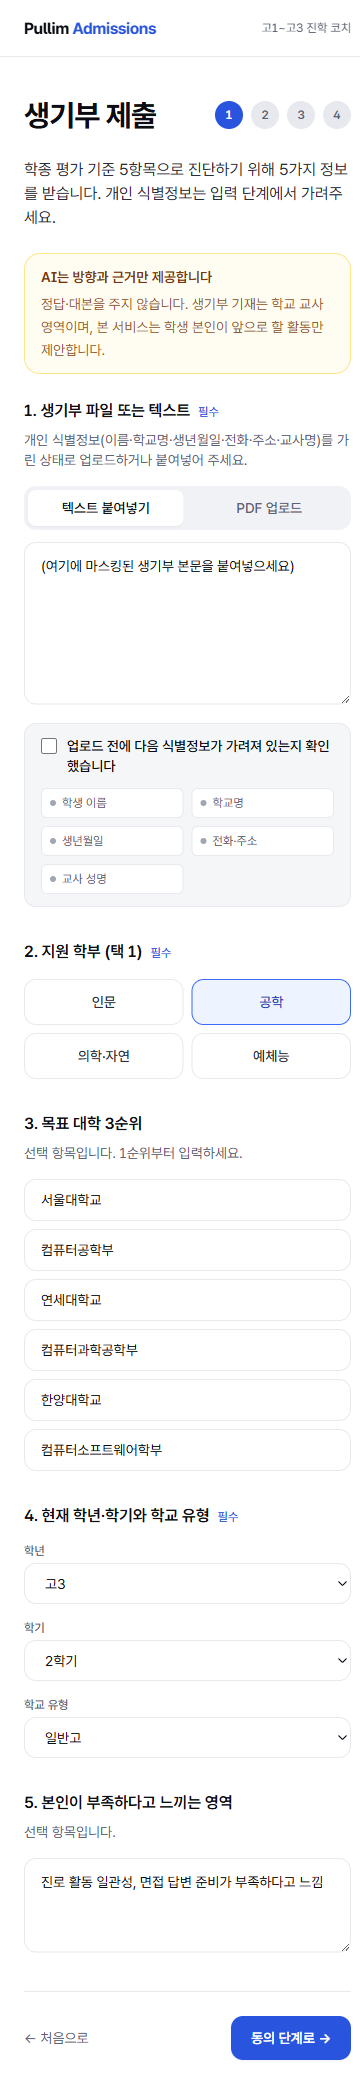
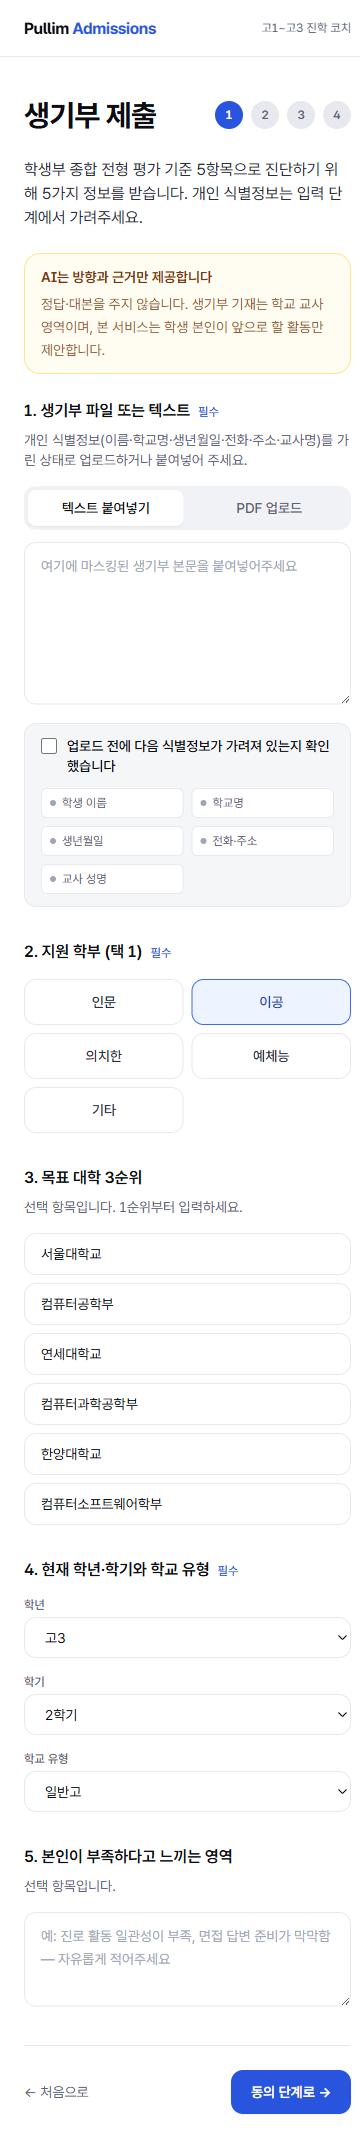
UX writing: 학종 → 학생부 종합 전형 (8 files) + /submit weakAreas placeholder
UX 라이팅 풀어 쓰기 (학생·학부모 대상 카피 명확화):
- apps/web/app/page.tsx (5 occurrences)
- apps/web/app/layout.tsx (meta description 2)
- apps/web/app/submit/page.tsx (1)
- apps/web/app/consent/page.tsx (2)
- apps/web/app/result/page.tsx (tab label 1)
- apps/web/app/parent/page.tsx (1)
- apps/web/lib/mock/park-junho.ts (parent report 1)
- apps/web/README.md (naming guidance 1)
정의·schema·shared 패키지는 SSOT라 학종(약어) 그대로 유지.

/submit 폴리시:
- 5. 본인이 부족하다고 느끼는 영역: useState 기본값 제거, 빈 문자열로 초기화.
  placeholder만 노출되도록 수정 ("예: 진로 활동 일관성이 부족, 면접 답변 준비가
  막막함 — 자유롭게 적어주세요")

docs/screenshot/ 12장 전부 재캡처 (desktop + mobile, 새 카피·placeholder 반영).

Verified: pnpm -r typecheck clean, build 7 static pages, 6 routes HTTP 200.

diff --git a/apps/web/app/page.tsx b/apps/web/app/page.tsx
@@ -10,7 +10,7 @@ type OutputCard = {
 const outputs: OutputCard[] = [
   {
     badge: '01',
-    title: '학종 면접 준비 팩',
+    title: '학생부 종합 전형 면접 준비 팩',
     bullets: [
       '예상 질문 10종 × 답변 방향',
       '근거가 될 생기부 항목 매핑',
@@ -21,7 +21,7 @@ const outputs: OutputCard[] = [
     badge: '02',
     title: '생기부 진단 가이드',
     bullets: [
-      '학종 평가 기준 5항목 매핑',
+      '학생부 종합 전형 평가 기준 5항목 매핑',
       '항목별 강·약점 진단',
       '앞으로 할 활동·정리 방향',
     ],
@@ -39,7 +39,7 @@ const outputs: OutputCard[] = [
 
 const seasons = [
   { months: '7~9월', label: '수시 원서·학생부 마감' },
-  { months: '10~11월', label: '학종 면접 시즌' },
+  { months: '10~11월', label: '학생부 종합 전형 면접 시즌' },
 ];
 
 export default function LandingPage() {
@@ -50,7 +50,7 @@ export default function LandingPage() {
         <span className="text-lg font-bold tracking-tight text-ink-900">
           Pullim<span className="text-brand-600"> Admissions</span>
         </span>
-        <span className="text-sm text-ink-500">고1~고3 · 학종 진학 코치</span>
+        <span className="text-sm text-ink-500">고1~고3 · 학생부 종합 전형 진학 코치</span>
       </header>
 
       {/* Hero */}
@@ -66,7 +66,7 @@ export default function LandingPage() {
           <br />한 번에.
         </h1>
         <p className="mt-6 max-w-prose text-lg leading-relaxed text-ink-700">
-          학종 평가 기준으로 내 생기부를 진단하고, 면접에서{' '}
+          학생부 종합 전형 평가 기준으로 내 생기부를 진단하고, 면접에서{' '}
           <strong className="font-semibold text-ink-900">스스로 답할 수 있도록</strong> 준비합니다.
           고1~고3 학생을 위해 만들어진 AI 진학 코치입니다.
         </p>

diff --git a/apps/web/app/submit/page.tsx b/apps/web/app/submit/page.tsx
@@ -61,7 +61,7 @@ export default function SubmitPage() {
   const [schoolType, setSchoolType] = useState<SchoolType>(
     parkJunho.identity.schoolType
   );
-  const [weakAreas, setWeakAreas] = useState<string>(parkJunho.profile.weakAreas);
+  const [weakAreas, setWeakAreas] = useState<string>('');
 
   const [errors, setErrors] = useState<FieldErrors>({});
   const [submitError, setSubmitError] = useState<string | null>(null);
@@ -146,7 +146,7 @@ export default function SubmitPage() {
           <StepIndicator current="submit" />
         </div>
         <p className="mb-6 text-ink-700">
-          학종 평가 기준 5항목으로 진단하기 위해 5가지 정보를 받습니다.
+          학생부 종합 전형 평가 기준 5항목으로 진단하기 위해 5가지 정보를 받습니다.
           개인 식별정보는 입력 단계에서 가려주세요.
         </p>
 
@@ -330,7 +330,7 @@ export default function SubmitPage() {
               rows={3}
               value={weakAreas}
               onChange={(e) => setWeakAreas(e.target.value)}
-              placeholder="예: 진로 활동 일관성, 면접 답변 준비 등"
+              placeholder="예: 진로 활동 일관성이 부족, 면접 답변 준비가 막막함 — 자유롭게 적어주세요"
               className="w-full rounded-xl border border-ink-100 bg-white px-4 py-3 text-sm leading-relaxed text-ink-900 placeholder:text-ink-300 focus:border-brand-300 focus:outline-none focus:ring-2 focus:ring-brand-100"
               data-field-error="selfReportedWeakAreas"
             />

diff --git a/apps/web/app/consent/page.tsx b/apps/web/app/consent/page.tsx
@@ -33,7 +33,7 @@ const items: ConsentItem[] = [
     required: true,
     title: '개인정보 수집·이용 동의 (민감정보 포함)',
     body:
-      '학종 진단을 위해 생기부에 포함된 학습·활동 정보를 수집·이용합니다. 식별정보는 입력 단계에서 가린 상태로 받으며, 저장 시 추가 보호 조치를 적용합니다. 보관 기간 12개월.',
+      '학생부 종합 전형 진단을 위해 생기부에 포함된 학습·활동 정보를 수집·이용합니다. 식별정보는 입력 단계에서 가린 상태로 받으며, 저장 시 추가 보호 조치를 적용합니다. 보관 기간 12개월.',
   },
   {
     id: 'guardian',
@@ -121,7 +121,7 @@ export default function ConsentPage() {
           <StepIndicator current="consent" />
         </div>
         <p className="mb-6 text-ink-700">
-          학종 진단 서비스를 진행하려면 아래 3가지 동의가 모두 필요합니다.
+          학생부 종합 전형 진단 서비스를 진행하려면 아래 3가지 동의가 모두 필요합니다.
           한 가지라도 동의하지 않으면 다음 단계로 진행할 수 없습니다.
         </p>
 

diff --git a/apps/web/app/layout.tsx b/apps/web/app/layout.tsx
@@ -4,12 +4,12 @@ import './globals.css';
 export const metadata: Metadata = {
   title: 'Pullim Admissions Coach',
   description:
-    '생기부를 넣으면 학종 면접 준비·생기부 진단·부족 활동 보완안을 한 번에 받는, 고1~고3을 위한 AI 진학 코치.',
+    '생기부를 넣으면 학생부 종합 전형 면접 준비·생기부 진단·부족 활동 보완안을 한 번에 받는, 고1~고3을 위한 AI 진학 코치.',
   metadataBase: new URL('https://pullim.curea.co'),
   openGraph: {
     title: 'Pullim Admissions Coach',
     description:
-      '학종 평가 기준으로 내 생기부를 진단하고, 면접을 스스로 답하도록 준비합니다.',
+      '학생부 종합 전형 평가 기준으로 내 생기부를 진단하고, 면접을 스스로 답하도록 준비합니다.',
     locale: 'ko_KR',
     type: 'website',
   },

diff --git a/apps/web/lib/mock/park-junho.ts b/apps/web/lib/mock/park-junho.ts
@@ -143,7 +143,7 @@ export const parkJunho = {
     progress: 'AI 1차 결과 도착 · 학생 검토 진행 중',
     summaryHighlights: [
       '면접 준비 팩과 생기부 진단이 24시간 안에 도착했습니다.',
-      '학생이 학종 평가 기준에서 자신의 강·약점을 확인하는 단계입니다.',
+      '학생이 학생부 종합 전형 평가 기준에서 자신의 강·약점을 확인하는 단계입니다.',
       '강세 영역: 학업역량·인성. 보완 필요 영역: 진로역량·공동체역량.',
     ],
     nextWeekPlan:

diff --git a/apps/web/app/parent/page.tsx b/apps/web/app/parent/page.tsx
@@ -52,7 +52,7 @@ export default function ParentReportPage() {
           </h2>
           <ul className="mt-3 space-y-2 text-sm text-ink-700">
             <li className="flex items-center justify-between">
-              <span>학종 면접 준비 팩</span>
+              <span>학생부 종합 전형 면접 준비 팩</span>
               <span className="text-xs font-medium text-brand-700">학생 화면 전용</span>
             </li>
             <li className="flex items-center justify-between">

diff --git a/apps/web/app/result/page.tsx b/apps/web/app/result/page.tsx
@@ -11,7 +11,7 @@ import { cn } from '@/lib/utils';
 type Tab = 'interview' | 'diagnosis' | 'improvements';
 
 const tabs: { id: Tab; label: string }[] = [
-  { id: 'interview', label: '학종 면접 준비 팩' },
+  { id: 'interview', label: '학생부 종합 전형 면접 준비 팩' },
   { id: 'diagnosis', label: '생기부 진단 가이드' },
   { id: 'improvements', label: '부족 활동 보완안' },
 ];

diff --git a/apps/web/README.md b/apps/web/README.md
@@ -54,7 +54,7 @@ lib/
 ```
 
 ## §6 가드레일 (UI)
-- 표시 명칭 고정: "**생기부 진단 가이드**", "**학종 면접 준비 팩**"
+- 표시 명칭 고정: "**생기부 진단 가이드**", "**학생부 종합 전형 면접 준비 팩**"
 - 카피 금지: "설계 가이드", "면접 답변 대본", "합격 답변 제공", "이렇게 말하세요/써넣으세요"
 - 결과 화면 상단에 "AI는 방향·근거만 제공, 대본·정답 아님" 라벨 노출
 - 학부모 리포트는 자녀 생기부·결과물 원문 미노출(요약만)
